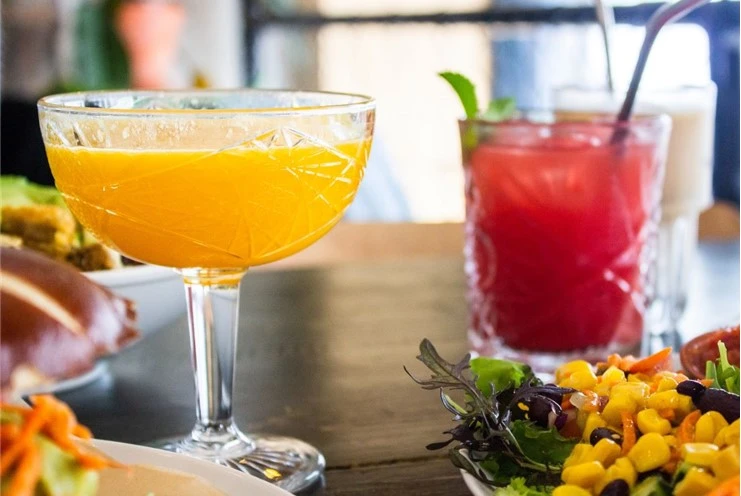
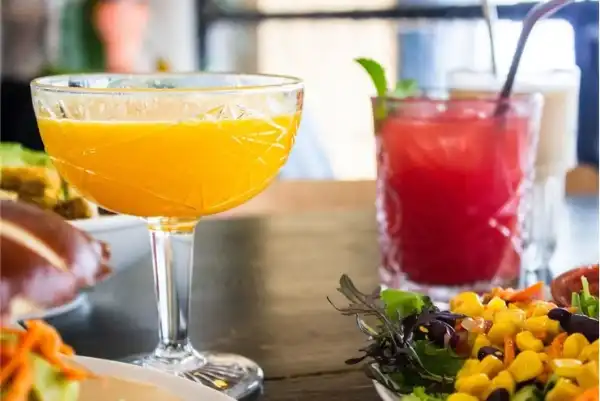
changed gallery image sizes to improve lighthouse performance score

diff --git a/assets/css/style.css b/assets/css/style.css
@@ -6,10 +6,13 @@ html {
    body 
    { 
     font-family: "Viga", sans-serif;
-    background: #ea861a url("../images/citrus.avif") no-repeat fixed !important;
-    background-size: cover;
     position: relative;
     min-height: 100%;
+   }
+
+   #citrus-background {
+    background: #ea861a url("../images/citrus.avif") no-repeat fixed !important;
+    background-size: cover;
    }
 
    /*----------------------NAVIGATION BAR */

diff --git a/contact.html b/contact.html
@@ -33,7 +33,7 @@
 <link rel="icon" type="image/png" sizes="16x16" href="assets/images/favicon.ico">
 </head>
 
-<body>   
+<body id="citrus-background">   
 <!-- NAVIGATION BAR code snippet adapted from Bootstrap documentation-->
 <nav class="navbar navbar-expand-sm sticky-top p-0">
 <div class="container-fluid">

diff --git a/404.html b/404.html
@@ -33,7 +33,7 @@
 <link rel="icon" type="image/png" sizes="16x16" href="assets/images/favicon.ico">
 </head>
 
-<body>
+<body id="citrus-background">
 <!-- NAVIGATION BAR code snippet adapted from Bootstrap documentation-->
 <nav class="navbar navbar-expand-sm sticky-top p-0">
   <div class="container-fluid">

diff --git a/about.html b/about.html
@@ -33,7 +33,7 @@
 <link rel="icon" type="image/png" sizes="16x16" href="assets/images/favicon.ico">
 </head>
 
-<body>
+<body id="citrus-background">
 <!-- NAVIGATION BAR code snippet adapted from Bootstrap documentation-->
 <nav class="navbar navbar-expand-sm sticky-top p-0">
   <div class="container-fluid">

diff --git a/index.html b/index.html
@@ -31,7 +31,7 @@
 <link rel="icon" type="image/png" sizes="16x16" href="assets/images/favicon.ico">
 </head>
 
-<body>
+<body id="citrus-background">
 <!-- NAVIGATION BAR code snippet adapted from Bootstrap documentation-->
 <nav class="navbar navbar-expand-sm sticky-top p-0">
   <div class="container-fluid">

diff --git a/menu.html b/menu.html
@@ -33,7 +33,7 @@
 <link rel="icon" type="image/png" sizes="16x16" href="assets/images/favicon.ico">
 </head>
 
-<body>
+<body id="citrus-background">
 <!-- NAVIGATION BAR code snippet adapted from Bootstrap documentation-->
 <nav class="navbar navbar-expand-sm sticky-top p-0">
   <div class="container-fluid">

diff --git a/thank-you.html b/thank-you.html
@@ -33,7 +33,7 @@
 <link rel="icon" type="image/png" sizes="16x16" href="assets/images/favicon.ico">
 </head>
 
-<body>
+<body id="citrus-background">
 <!-- NAVIGATION BAR code snippet adapted from Bootstrap documentation-->
 <nav class="navbar navbar-expand-sm sticky-top p-0">
   <div class="container-fluid">
